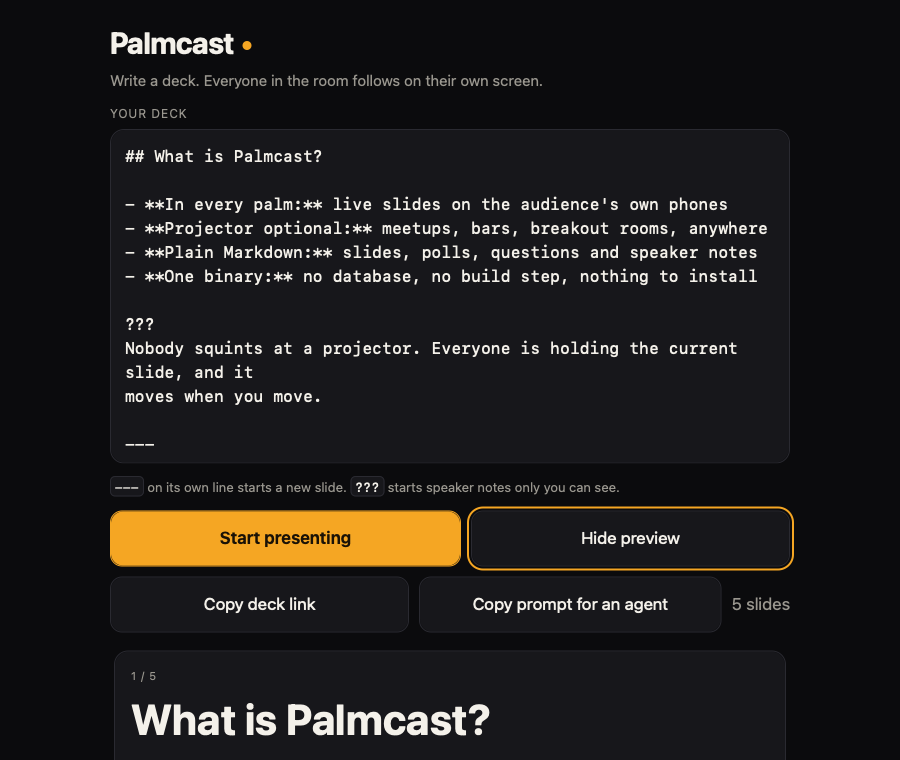
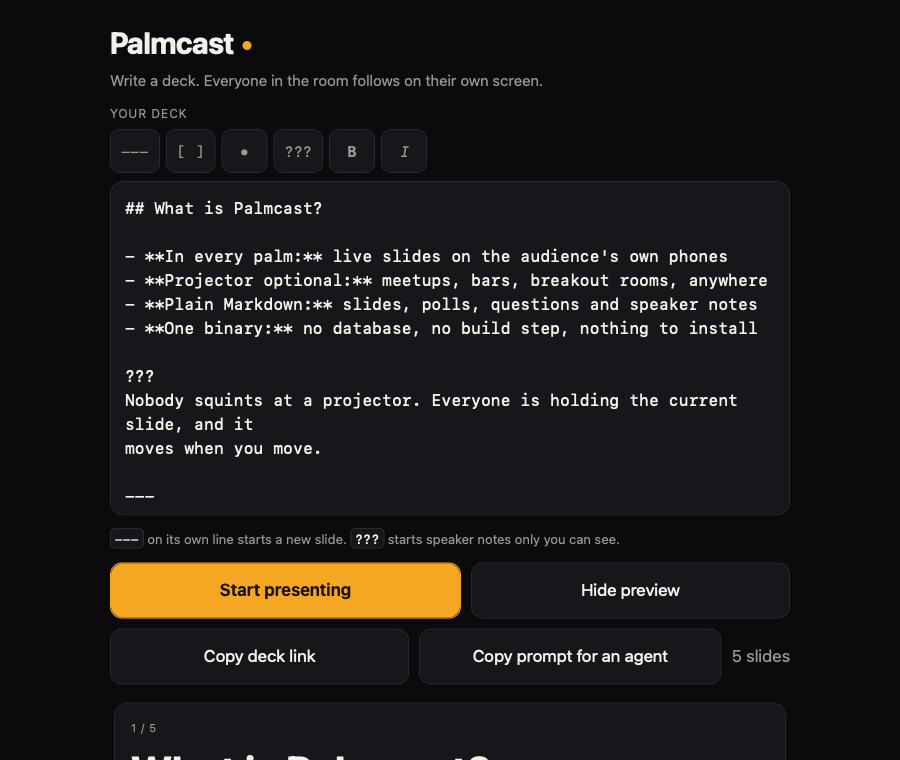
docs(readme): describe the editor's keys and buttons
The start page screenshot predates the toolbar, so it no longer shows
the editor a reader opens.

diff --git a/README.md b/README.md
@@ -61,7 +61,7 @@ cargo run -- --port 8080
 Open `http://localhost:8080`, write a deck, and press **Start presenting**. The
 presenter console shows a QR code under **Share**. Point a phone at it to join.
 
-<img src="docs/screenshots/editor.png" width="640" alt="The start page: a Markdown editor holding the built-in deck, the slide count, and buttons to start presenting or preview the deck">
+<img src="docs/screenshots/editor.png" width="640" alt="The start page: a Markdown editor holding the built-in deck, a row of buttons that insert the format's own characters, the slide count, and buttons to start presenting or preview the deck">
 
 **Share** hands the link to the phone's share sheet where there is one, and to
 the clipboard otherwise. A laptop serving plain http has neither, because both
@@ -106,6 +106,19 @@ Keep it to three minutes. They have drinks.
 
 Notes reach the presenter socket only. The server strips them from every message
 bound for an audience or stage view.
+
+The editor knows that format. Enter on a list item opens the next one, and Enter
+on an empty item steps out of the list, so a four option question is typed once
+rather than four times. An answer never carries its tick down: the line after
+`- [x] Rust` is `- [ ]`. A numbered list counts on, and a fenced block is left
+alone, because a list inside a fence is an example rather than a list.
+
+The row above the editor writes what a phone keyboard buries two taps deep:
+`---` for a slide, `[ ]` for an answer, `???` for notes. A keyboard gets the
+usual shortcuts instead. **Ctrl/⌘ + B** and **I** mark emphasis, **K** wraps
+a link, **Ctrl/⌘ + Enter** starts a slide, and Tab nests a list item where
+Shift+Tab lifts it back out. Both editors work this way, the start page and
+**Edit** in the presenter console.
 
 Tapping the slide counter opens a grid of every slide, marking the questions, so
 an MC can reach round four without stepping through the talk.
